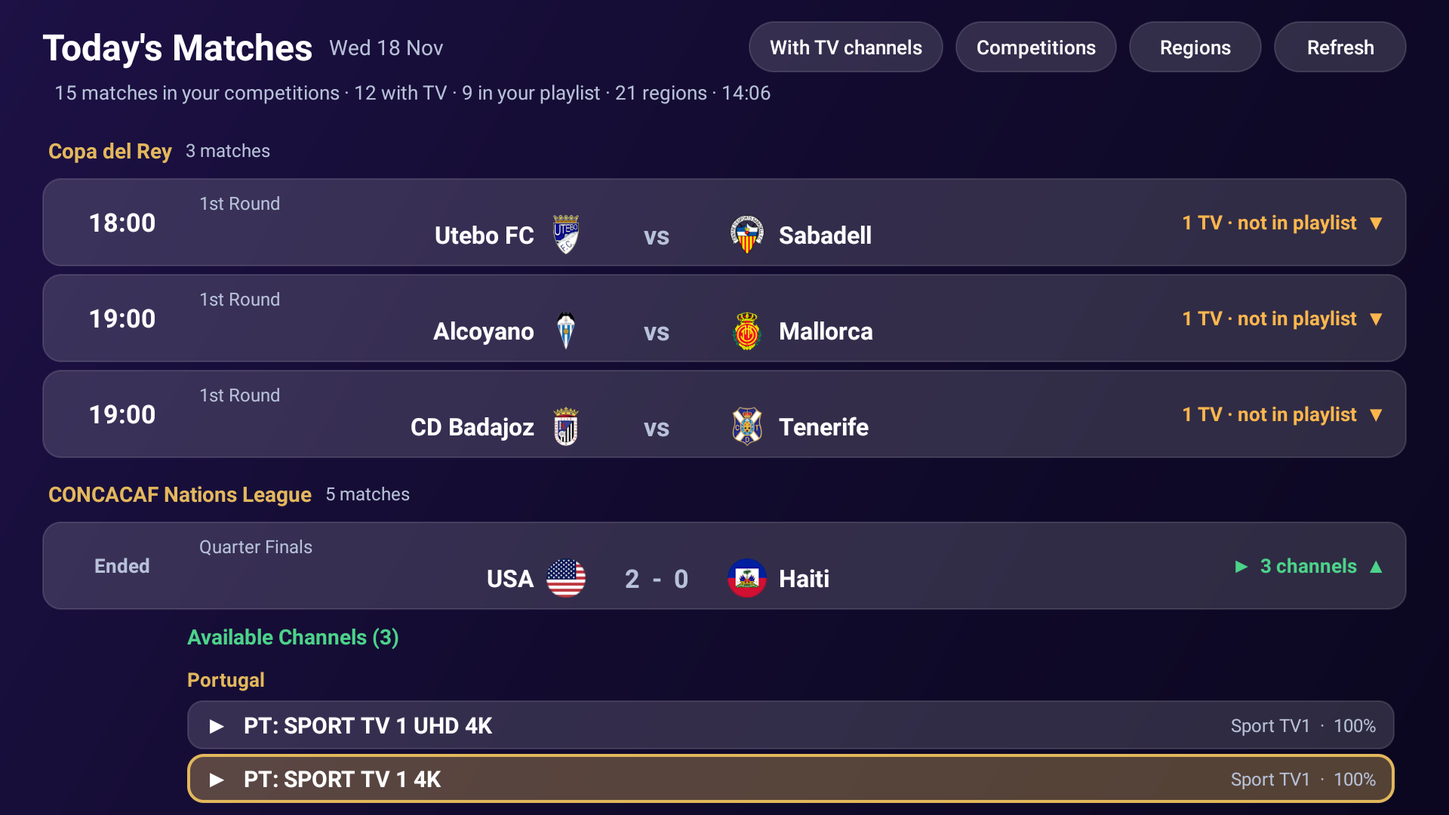
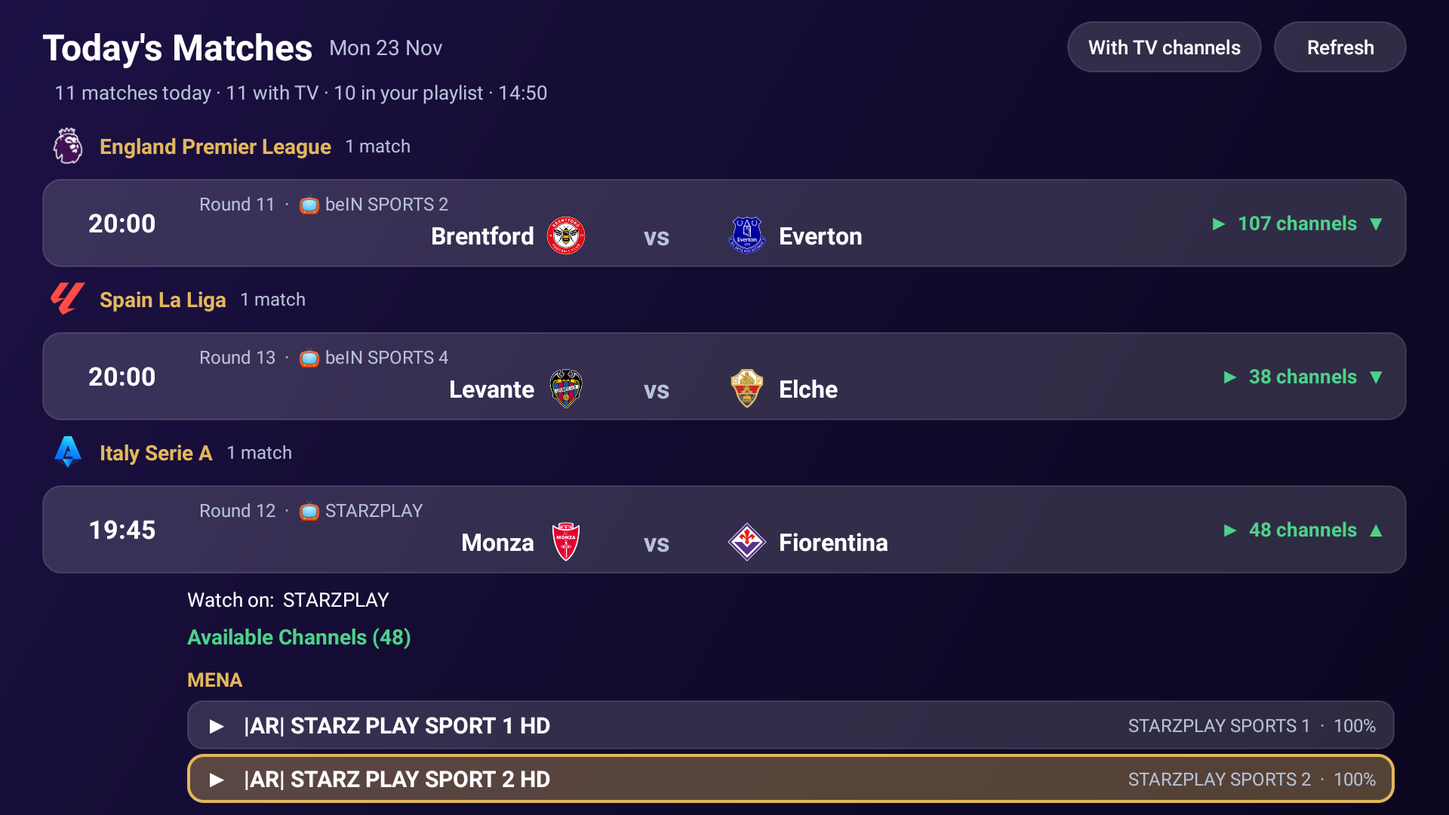
Today's Matches: Fixtures OnSAT instead of 365Scores (v1.9.3)
README / FEATURES: matches and channels now come from Fixtures OnSAT, only sure channels (name + country),
Broadcast Regions and Match Competitions removed, required updates. New screenshots.

diff --git a/README.md b/README.md
@@ -26,11 +26,7 @@ Version number, changes and SHA-256 checksum: see the [latest release](https://g
 
 | Today's Matches / مباريات اليوم | Match channels / قنوات المباراة |
 |---|---|
-| ![Today's matches grouped by competition](screenshots/todays-matches.png) | ![Channels of a match from your playlist](screenshots/match-channels.png) |
-
-| Match competitions / البطولات | |
-|---|---|
-| ![Choose competitions](screenshots/match-competitions.png) | |
+| ![Today's matches from Fixtures OnSAT](screenshots/todays-matches.png) | ![Channels of a match from your playlist](screenshots/match-channels.png) |
 
 | Group order / ترتيب المجموعات | EPG sources / مصادر دليل البرامج |
 |---|---|
@@ -52,12 +48,11 @@ The full list is in [FEATURES.md](FEATURES.md). / القائمة الكاملة 
 
 - **Playlists** — add an **M3U URL** or **Xtream Codes** login, name it, manage several playlists, see connection status, reload.
 - **Auto-update** — the playlist refreshes every 6, 12 (default), 24 or 48 hours; the EPG is refreshed with it.
-- **Today's Matches** — today's football matches grouped by competition (most popular first): live minute and score, kick-off times, team logos. For each match the app asks the 365Scores football API which TV channels broadcast it in every **Broadcast Region** you enable (one query per region, results merged and de-duplicated), then finds those channels in **your own playlist** (country prefix or group: FR, UK, DE, AR …, quality HD/FHD/4K ignored, confidence score). OK on a channel plays it fullscreen. Channels that are not in your playlist are listed separately and are never shown as playable.
-- **Match Competitions** — default: all national-team competitions (World Cup, qualifiers, friendlies…) plus the major club competitions (Premier League, LaLiga, Bundesliga, Serie A, Ligue 1, cups and super cups, Champions/Europa/Conference League, Libertadores, CAF/AFC Champions League, Saudi League, Botola Pro…); add or remove any competition in Settings.
-- **Broadcast Regions order** — put your regions in the order you prefer (Settings → Broadcast Regions → "Change the order of my regions": OK on a region, ▲ ▼ to move it, OK to drop it; on phones tap a region, then its new place). The channels of a match are listed in that order. Matches are shown live first, then upcoming, then finished; channels of a finished match disappear 15 minutes after the end (the result stays).
+- **Today's Matches** — today's football matches from **Fixtures OnSAT** (our own match service), in the same order as the website: live minute and score, kick-off times, rounds, team and competition logos, the main broadcaster and the commentator. Every TV channel of a match is searched in **your own playlist** by **name and country** (the channel prefix or its group: `|AR|`, `ARAB| EGYPT`, `AF| AZAM`, `ASIA| IRAN`, `EU| ROMANIA` …; HD/FHD/4K ignored). Only sure channels are shown; OK on a channel plays it fullscreen. Channels that are not in your playlist are listed separately and are never shown as playable.
+- **Match channels** — grouped by country; STARZPLAY matches open STARZPLAY SPORTS 1 and 2; Egyptian League matches find ON Sport (ONTIME SPORTS); beIN SPORTS English stays separate from the Arabic beIN. Matches are shown live first, then upcoming, then finished; channels of a finished match disappear 15 minutes after the end (the result stays).
 - **Full translation** — the whole app follows the language chosen in Settings (English, Arabic, French, Spanish, Italian), including Today's Matches, all dialogs and messages.
-- **Updates from GitHub** — Settings → **Check for updates** compares the app with the latest release, shows what is new, downloads the APK from the permanent link and opens the Android installer. The app also checks quietly every 12 hours.
-- **First-use tips** — a short tip (English + Arabic) appears once in Live (how to reorder groups) and once in Today's Matches (regions and competitions are in Settings).
+- **Updates from GitHub** — Settings → **Check for updates** compares the app with the latest release, shows what is new, downloads the APK from the permanent link and opens the Android installer. The app also checks quietly every 3 hours; a required update cannot be postponed.
+- **First-use tips** — a short tip (English + Arabic) appears once in Live (how to reorder groups) and once in Today's Matches (how to open and play a match's channels).
 - **Live TV** — groups, channels and a live preview with rounded corners and a rounded focus frame; OK = fullscreen.
 - **Fullscreen channel list** — DOWN shows the group's channels over the video; LEFT / RIGHT switch groups; OK plays.
 - **Group order** — hold OK on a group in Live, Movies or Series, move it with ▲ ▼ (the list follows it past the screen), OK saves instantly, BACK cancels. On phones: press and hold, then drag the group. Hold OK on a fixed row to reset to the provider's order.
@@ -68,7 +63,7 @@ The full list is in [FEATURES.md](FEATURES.md). / القائمة الكاملة 
 - **Phones too** — touch layouts, fullscreen player that keeps playing after the notification shade, adaptive launcher icon.
 - **Languages** — Arabic, French, English, Spanish and Italian. VPN controls in Settings.
 
-Match data and broadcaster names come from the public 365Scores web service (unofficial; it can change without notice). Channels named by the service are never shown as playable: only channels of your own playlist can be played.
+Match data and broadcaster names come from Fixtures OnSAT. Channels named by the service are never shown as playable: only channels of your own playlist can be played.
 
 The app is a player. This repository does not provide IPTV subscriptions, channels, movies, series, playlist URLs, or login credentials. Add only playlists and services you are authorized to use.
 
@@ -76,12 +71,11 @@ The app is a player. This repository does not provide IPTV subscriptions, channe
 
 - **القوائم** — إضافة **رابط M3U** أو **بيانات Xtream Codes** مع تسمية القائمة، وإدارة عدة قوائم ومعرفة حالة الاتصال وإعادة التحميل.
 - **التحديث التلقائي** — تحديث القائمة كل 6 أو 12 (افتراضي) أو 24 أو 48 ساعة، مع تحديث دليل البرامج معها.
-- **مباريات اليوم** — مباريات كرة القدم لليوم مجمّعة حسب البطولة (الأشهر أولا) مع الدقيقة والنتيجة المباشرة وموعد الانطلاق وشعارات الفرق. لكل مباراة يسأل التطبيق واجهة 365Scores عن القنوات الناقلة في كل **منطقة بث** مفعّلة (طلب لكل منطقة، ثم دمج النتائج وإزالة التكرار)، ثم يبحث عن هذه القنوات في **قائمتك أنت** (حسب بادئة الدولة أو المجموعة: FR و UK و DE و AR …، مع تجاهل HD/FHD/4K ودرجة ثقة للمطابقة). زر OK على القناة يشغّلها بالشاشة الكاملة. القنوات غير الموجودة في قائمتك تظهر في قسم منفصل ولا تُعرض كقنوات قابلة للتشغيل.
-- **بطولات المباريات** — الافتراضي: كل بطولات المنتخبات (كأس العالم والتصفيات والمباريات الودية…) وأهم بطولات الأندية (الدوري الإنجليزي والإسباني والألماني والإيطالي والفرنسي والكؤوس والسوبر، دوري الأبطال والدوري الأوروبي ودوري المؤتمر، ليبرتادوريس، أبطال إفريقيا وآسيا، الدوري السعودي، البطولة الاحترافية…)؛ يمكن إضافة أو حذف أي بطولة من الإعدادات.
-- **ترتيب مناطق البث** — رتّب مناطقك كما تريد (الإعدادات ← مناطق البث ← «تغيير ترتيب مناطقي»: OK على المنطقة، ثم ▲ ▼ لتحريكها، ثم OK لتثبيتها؛ على الهاتف اضغط على المنطقة ثم على مكانها الجديد). تُعرض قنوات المباراة بهذا الترتيب. المباريات تظهر: المباشرة أولا ثم القادمة ثم المنتهية، وقنوات المباراة المنتهية تختفي بعد 15 دقيقة من نهايتها وتبقى النتيجة.
+- **مباريات اليوم** — مباريات كرة القدم لليوم من **Fixtures OnSAT** (خدمة المباريات الخاصة بنا) بنفس ترتيب الموقع: الدقيقة والنتيجة المباشرة وموعد الانطلاق والجولة وشعارات الفرق والبطولات والقناة الناقلة والمعلق. كل قناة ناقلة يُبحث عنها في **قائمتك أنت** حسب **الاسم والبلد** (بادئة القناة أو مجموعتها: `|AR|` و `ARAB| EGYPT` و `AF| AZAM` و `ASIA| IRAN` و `EU| ROMANIA` …، مع تجاهل HD/FHD/4K). تظهر القنوات المؤكدة فقط، وزر OK على القناة يشغّلها بالشاشة الكاملة. القنوات غير الموجودة في قائمتك تظهر في قسم منفصل ولا تُعرض كقنوات قابلة للتشغيل.
+- **قنوات المباراة** — مجمّعة حسب البلد؛ مباريات STARZPLAY تفتح STARZPLAY SPORTS 1 و 2، ومباريات الدوري المصري تجد ON Sport (ONTIME SPORTS)، و beIN SPORTS English منفصلة عن beIN العربية. المباريات تظهر: المباشرة أولا ثم القادمة ثم المنتهية، وقنوات المباراة المنتهية تختفي بعد 15 دقيقة من نهايتها وتبقى النتيجة.
 - **ترجمة كاملة** — التطبيق كله يتبع اللغة المختارة في الإعدادات (العربية، الإنجليزية، الفرنسية، الإسبانية، الإيطالية)، بما في ذلك مباريات اليوم وكل النوافذ والرسائل.
-- **التحديث من GitHub** — الإعدادات ← **التحقق من التحديثات** يقارن التطبيق بآخر إصدار، ويعرض الجديد، وينزّل ملف APK من الرابط الدائم ويفتح أداة التثبيت. ويتحقق التطبيق تلقائيا كل 12 ساعة.
-- **نصائح أول استعمال** — نافذة قصيرة (بالعربية والإنجليزية) تظهر مرة واحدة في البث المباشر (كيفية ترتيب المجموعات) ومرة في مباريات اليوم (المناطق والبطولات في الإعدادات).
+- **التحديث من GitHub** — الإعدادات ← **التحقق من التحديثات** يقارن التطبيق بآخر إصدار، ويعرض الجديد، وينزّل ملف APK من الرابط الدائم ويفتح أداة التثبيت. ويتحقق التطبيق تلقائيا كل 3 ساعات، والتحديث الإلزامي لا يمكن تأجيله.
+- **نصائح أول استعمال** — نافذة قصيرة (بالعربية والإنجليزية) تظهر مرة واحدة في البث المباشر (كيفية ترتيب المجموعات) ومرة في مباريات اليوم (كيفية فتح قنوات المباراة وتشغيلها).
 - **البث المباشر** — المجموعات والقنوات ومعاينة مباشرة بزوايا دائرية وإطار تركيز دائري؛ زر OK للشاشة الكاملة.
 - **قائمة القنوات في الشاشة الكاملة** — زر الأسفل يعرض قنوات المجموعة فوق الفيديو، ويمين / يسار للتنقل بين المجموعات، وOK للتشغيل.
 - **ترتيب المجموعات** — اضغط مطولا على OK فوق مجموعة في المباشر أو الأفلام أو المسلسلات، وحرّكها بـ ▲ ▼ (القائمة تتبعها حتى خارج الشاشة)، وOK يحفظ فورا وBACK يلغي. على الهاتف: اضغط مطولا ثم اسحب المجموعة. الضغط المطوّل على صف ثابت يعيد ترتيب المزوّد الأصلي.

diff --git a/FEATURES.md b/FEATURES.md
@@ -9,13 +9,10 @@
 - Automatic playlist refresh every 6, 12 (default), 24 or 48 hours; *Reload* on the home screen refreshes on demand.
 
 ### Today's Matches (home tile)
-- Today's football matches from the 365Scores web API, grouped by competition (most popular first); inside a competition: live, upcoming, finished. Live minute, score, kick-off time, round, team logos; auto refresh (1 min with live games, else 5 min).
-- **Broadcast Regions** (Settings): any of the API's countries; default Brazil, Canada, Cyprus, Czechia, Denmark, England, Finland, France, Germany, Greece, Hungary, Italy, Kuwait, Morocco, Netherlands, Poland, Portugal, Saudi Arabia, Spain, Turkiye, USA. Select all / deselect all / restore defaults; selected first, A–Z.
-- One API query per region (the API supports one country per request), channels merged per match: the same channel from several regions is shown once with all its regions; different channels with similar names stay separate. A region that fails is reported with *Retry*; the others are still shown.
-- **Match Competitions** (Settings): all national-team competitions (incl. friendlies) and a chosen list of club competitions; option to show every competition. Only selected competitions are loaded.
-- **Matching with your playlist**: by channel name (case, spaces, punctuation, HD/FHD/4K/HEVC ignored, known aliases such as M+ = Movistar, TNT = BT Sport, close spellings) and by country: the channel prefix or its group (FR, UK, DE/GER, SP/ESP/ES, MA/AR, SA/AR, TR/TUR, IT/ITA, NL, US/USA, CA/CAN, PT/POR, PL/POL, BR/BRA …). Channel numbers must match (beIN 1 ≠ beIN 10). Each match has a confidence score: only strong matches are playable, weaker ones are shown as "possible", the rest under **Not Available in Your Playlist**.
+- Today's football matches from **Fixtures OnSAT** (our own match service, static JSON on GitHub Pages, updated every 30 minutes), in the website's order and grouped by competition; inside a competition: live, upcoming, finished. Live minute and score (ESPN live feed when available, else from the kick-off time), kick-off time, round, team and competition logos, main broadcaster ("watch on") and commentator; auto refresh (1 min with live games, else 5 min).
+- **Channels of a match**: every channel name of the service ends with its country ("beIN SPORTS 1 Qatar"); the app splits it into name + country. Matches without a channel list get their channel from the broadcaster logo (Egyptian League: ON Sport 1 / ON Sport Max); STARZPLAY = STARZPLAY SPORTS 1 and 2.
+- **Matching with your playlist**: by channel name (case, spaces, punctuation, HD/FHD/4K/HEVC ignored, known aliases such as M+ = Movistar, TNT = BT Sport, ON Sport = ONTIME SPORTS, close spellings) and by country: the channel's own prefix decides, else its group (`ARAB| EGYPT` = Egypt, `ASIA| IRAN` = Iran, `AF| AZAM` = any African country; Arab prefixes are shared by Arab channels, ex-Yugoslav prefixes by ex-Yugoslav channels). Channel numbers must match (beIN 1 ≠ beIN 10; "… 1" also finds the unnumbered channel). **Only sure channels are playable**; the others are listed under **Not Available in Your Playlist**.
 - Filter: *With TV channels* (default) / *In my playlist* / *All matches*. OK on a channel plays it fullscreen in the Live player.
-- **Order of the regions** (Settings → Broadcast Regions → "Change the order of my regions"): remote OK picks a region, ▲ ▼ move it, OK drops it; touch: tap a region, then its new place. The channel groups of a match follow this order.
 - Matches: live first, then upcoming, then finished, each grouped by competition. 15 minutes after the end of a match only its result is shown. BACK from a channel opened here returns straight to the match.
 
 ### Live TV
@@ -44,8 +41,8 @@
 
 ### Language, updates, tips
 - The whole app follows the language chosen in Settings → Change Language (English, Arabic, French, Spanish, Italian).
-- Settings → **Check for updates**: compares with the latest GitHub release, shows the release notes, downloads `R1TV-Player.apk` from the permanent link and opens the Android installer (settings and playlists are kept). A quiet check also runs every 12 hours.
-- First-use tips (English + Arabic), shown once: how to reorder groups (Live) and where regions / competitions are set (Today's Matches).
+- Settings → **Check for updates**: compares with the latest GitHub release, shows the release notes, downloads `R1TV-Player.apk` from the permanent link and opens the Android installer (settings and playlists are kept). A quiet check also runs every 3 hours; a release marked as required shows a prompt without "Later" until it is installed.
+- First-use tips (English + Arabic), shown once: how to reorder groups (Live) and how to open a match's channels (Today's Matches).
 
 ### Home screen & exit
 - Tiles: Live, Movies, Series, Settings, Playlist, Reload, EXIT; subscription expiry, clock and date.
@@ -76,13 +73,10 @@
 - تحديث تلقائي للقائمة كل 6 أو 12 (افتراضي) أو 24 أو 48 ساعة، وزر *Reload* في الرئيسية للتحديث عند الطلب.
 
 ### مباريات اليوم (مربع في الرئيسية)
-- مباريات كرة القدم لليوم من واجهة 365Scores، مجمّعة حسب البطولة (الأشهر أولا)، وداخل كل بطولة: المباشرة ثم القادمة ثم المنتهية. الدقيقة والنتيجة وموعد الانطلاق والجولة وشعارات الفرق، مع تحديث تلقائي (كل دقيقة أثناء المباريات المباشرة وإلا كل 5 دقائق).
-- **مناطق البث** (من الإعدادات): أي دولة تدعمها الواجهة؛ الافتراضي البرازيل، كندا، قبرص، التشيك، الدنمارك، إنجلترا، فنلندا، فرنسا، ألمانيا، اليونان، المجر، إيطاليا، الكويت، المغرب، هولندا، بولندا، البرتغال، السعودية، إسبانيا، تركيا، أمريكا. تحديد الكل / إلغاء الكل / استعادة الافتراضي؛ المختار أولا ثم ترتيب أبجدي.
-- طلب واحد لكل منطقة (الواجهة تقبل دولة واحدة في كل طلب)، ثم دمج القنوات لكل مباراة: القناة نفسها من عدة مناطق تظهر مرة واحدة مع مناطقها، والقنوات المختلفة ذات الأسماء المتشابهة تبقى منفصلة. المنطقة التي يفشل تحميلها تظهر مع زر *Retry* وتبقى نتائج باقي المناطق.
-- **بطولات المباريات** (من الإعدادات): كل بطولات المنتخبات (مع الودية) وقائمة مختارة من بطولات الأندية، مع خيار عرض كل البطولات. لا تُحمّل إلا البطولات المختارة.
-- **المطابقة مع قائمتك**: حسب اسم القناة (حالة الأحرف والمسافات والرموز وHD/FHD/4K/HEVC مُتجاهلة، أسماء بديلة معروفة مثل M+ = Movistar و TNT = BT Sport، والأخطاء الإملائية البسيطة) وحسب الدولة: بادئة القناة أو مجموعتها (FR، UK، DE/GER، SP/ESP/ES، MA/AR، SA/AR، TR/TUR، IT/ITA، NL، US/USA، CA/CAN، PT/POR، PL/POL، BR/BRA …). أرقام القنوات يجب أن تتطابق (beIN 1 ≠ beIN 10). لكل مطابقة درجة ثقة: القوية فقط قابلة للتشغيل، والأضعف تظهر كـ"محتملة"، والباقي تحت **Not Available in Your Playlist**.
+- مباريات كرة القدم لليوم من **Fixtures OnSAT** (خدمة المباريات الخاصة بنا، ملفات JSON على GitHub Pages تتحدث كل 30 دقيقة)، بترتيب الموقع ومجمّعة حسب البطولة، وداخل كل بطولة: المباشرة ثم القادمة ثم المنتهية. الدقيقة والنتيجة (من ESPN عند توفرها وإلا حسب وقت الانطلاق)، وموعد الانطلاق والجولة وشعارات الفرق والبطولات والقناة الناقلة والمعلق، مع تحديث تلقائي (كل دقيقة أثناء المباريات المباشرة وإلا كل 5 دقائق).
+- **قنوات المباراة**: كل اسم قناة في الخدمة ينتهي ببلدها («beIN SPORTS 1 Qatar») فيقسمه التطبيق إلى اسم + بلد. المباريات بدون قائمة قنوات تأخذ قناتها من شعار القناة الناقلة (الدوري المصري: ON Sport 1 / ON Sport Max)، و STARZPLAY = STARZPLAY SPORTS 1 و 2.
+- **المطابقة مع قائمتك**: حسب اسم القناة (حالة الأحرف والمسافات والرموز وHD/FHD/4K/HEVC مُتجاهلة، أسماء بديلة معروفة مثل M+ = Movistar و TNT = BT Sport و ON Sport = ONTIME SPORTS، والأخطاء الإملائية البسيطة) وحسب البلد: بادئة القناة هي الأساس وإلا مجموعتها (`ARAB| EGYPT` = مصر، `ASIA| IRAN` = إيران، `AF| AZAM` = أي بلد إفريقي؛ البادئات العربية مشتركة بين القنوات العربية، وبادئات يوغوسلافيا السابقة كذلك). أرقام القنوات يجب أن تتطابق (beIN 1 ≠ beIN 10، و «… 1» تجد أيضا القناة بدون رقم). **القنوات المؤكدة فقط قابلة للتشغيل**، والباقي تحت **Not Available in Your Playlist**.
 - التصفية: *With TV channels* (افتراضي) / *In my playlist* / *All matches*. زر OK على القناة يشغّلها بالشاشة الكاملة في مشغل البث المباشر.
-- **ترتيب المناطق** (الإعدادات ← مناطق البث ← «تغيير ترتيب مناطقي»): بالريموت OK لاختيار المنطقة ثم ▲ ▼ لتحريكها ثم OK لتثبيتها؛ باللمس اضغط على المنطقة ثم على مكانها الجديد. مجموعات قنوات المباراة تتبع هذا الترتيب.
 - المباريات: المباشرة أولا ثم القادمة ثم المنتهية، مجمّعة حسب البطولة. بعد 15 دقيقة من نهاية المباراة تبقى النتيجة فقط. زر الرجوع من قناة فُتحت من هنا يعود مباشرة إلى المباراة.
 
 ### البث المباشر
@@ -111,8 +105,8 @@
 
 ### اللغة والتحديث والنصائح
 - التطبيق كله يتبع اللغة المختارة في الإعدادات ← تغيير اللغة (العربية، الإنجليزية، الفرنسية، الإسبانية، الإيطالية).
-- الإعدادات ← **التحقق من التحديثات**: مقارنة بآخر إصدار على GitHub، عرض الجديد، تنزيل `R1TV-Player.apk` من الرابط الدائم وفتح أداة التثبيت (مع الاحتفاظ بالإعدادات والقوائم). ويتم فحص تلقائي كل 12 ساعة.
-- نصائح أول استعمال (بالعربية والإنجليزية) تظهر مرة واحدة: كيفية ترتيب المجموعات (البث المباشر) ومكان المناطق والبطولات (مباريات اليوم).
+- الإعدادات ← **التحقق من التحديثات**: مقارنة بآخر إصدار على GitHub، عرض الجديد، تنزيل `R1TV-Player.apk` من الرابط الدائم وفتح أداة التثبيت (مع الاحتفاظ بالإعدادات والقوائم). ويتم فحص تلقائي كل 3 ساعات، والإصدار الإلزامي يظهر بدون زر «لاحقا» حتى يُثبَّت.
+- نصائح أول استعمال (بالعربية والإنجليزية) تظهر مرة واحدة: كيفية ترتيب المجموعات (البث المباشر) وكيفية فتح قنوات المباراة (مباريات اليوم).
 
 ### الشاشة الرئيسية والخروج
 - المربعات: Live و Movies و Series و Settings و Playlist و Reload و EXIT، مع مدة الاشتراك والساعة والتاريخ.
